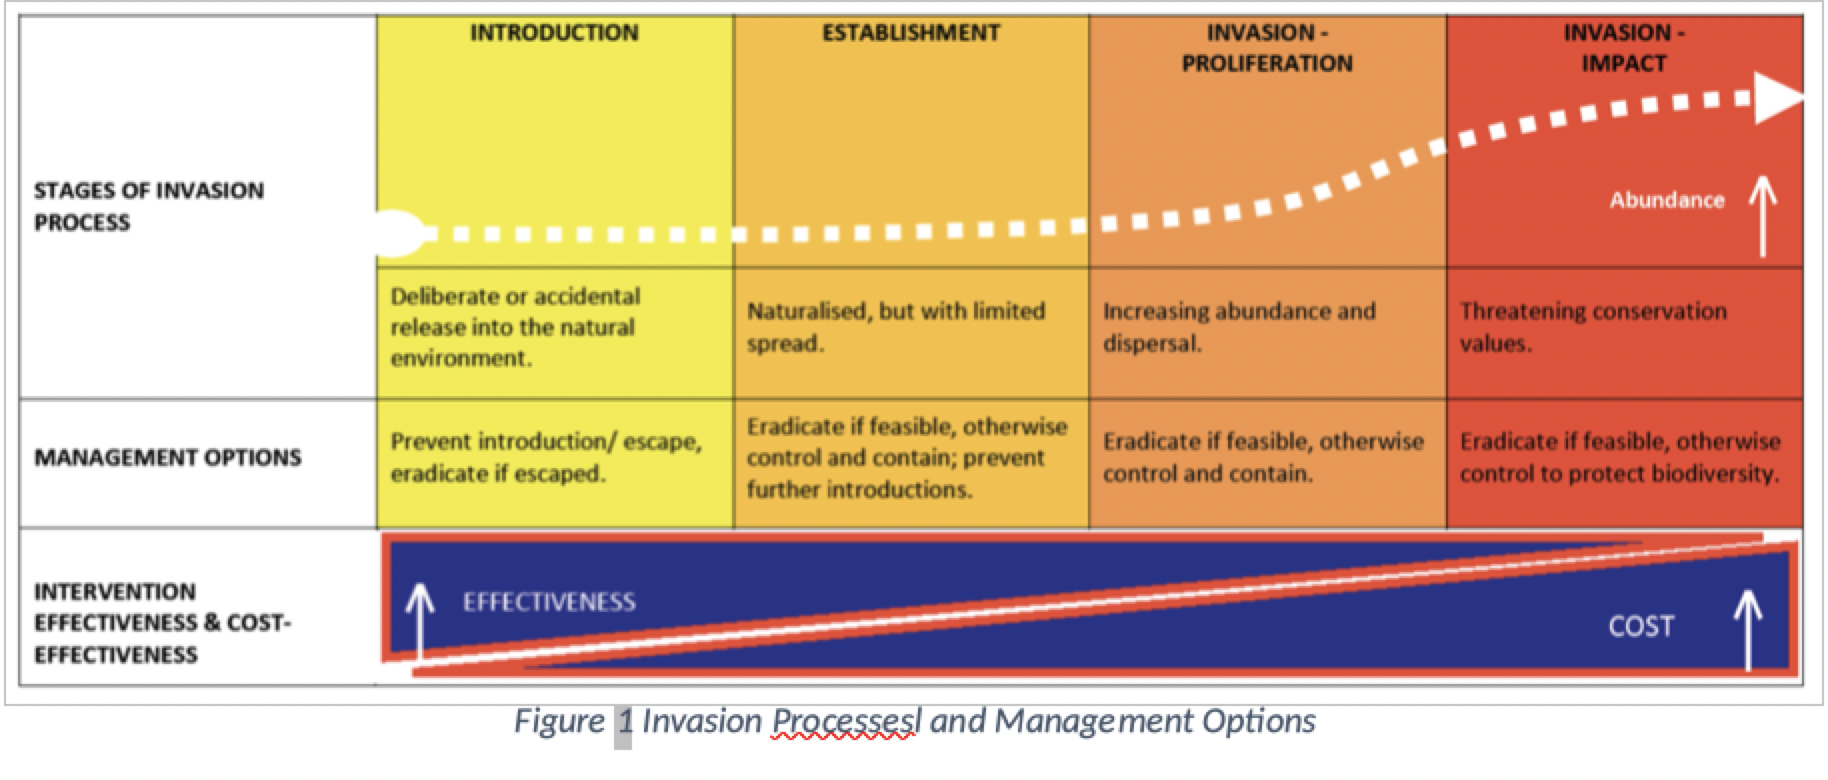
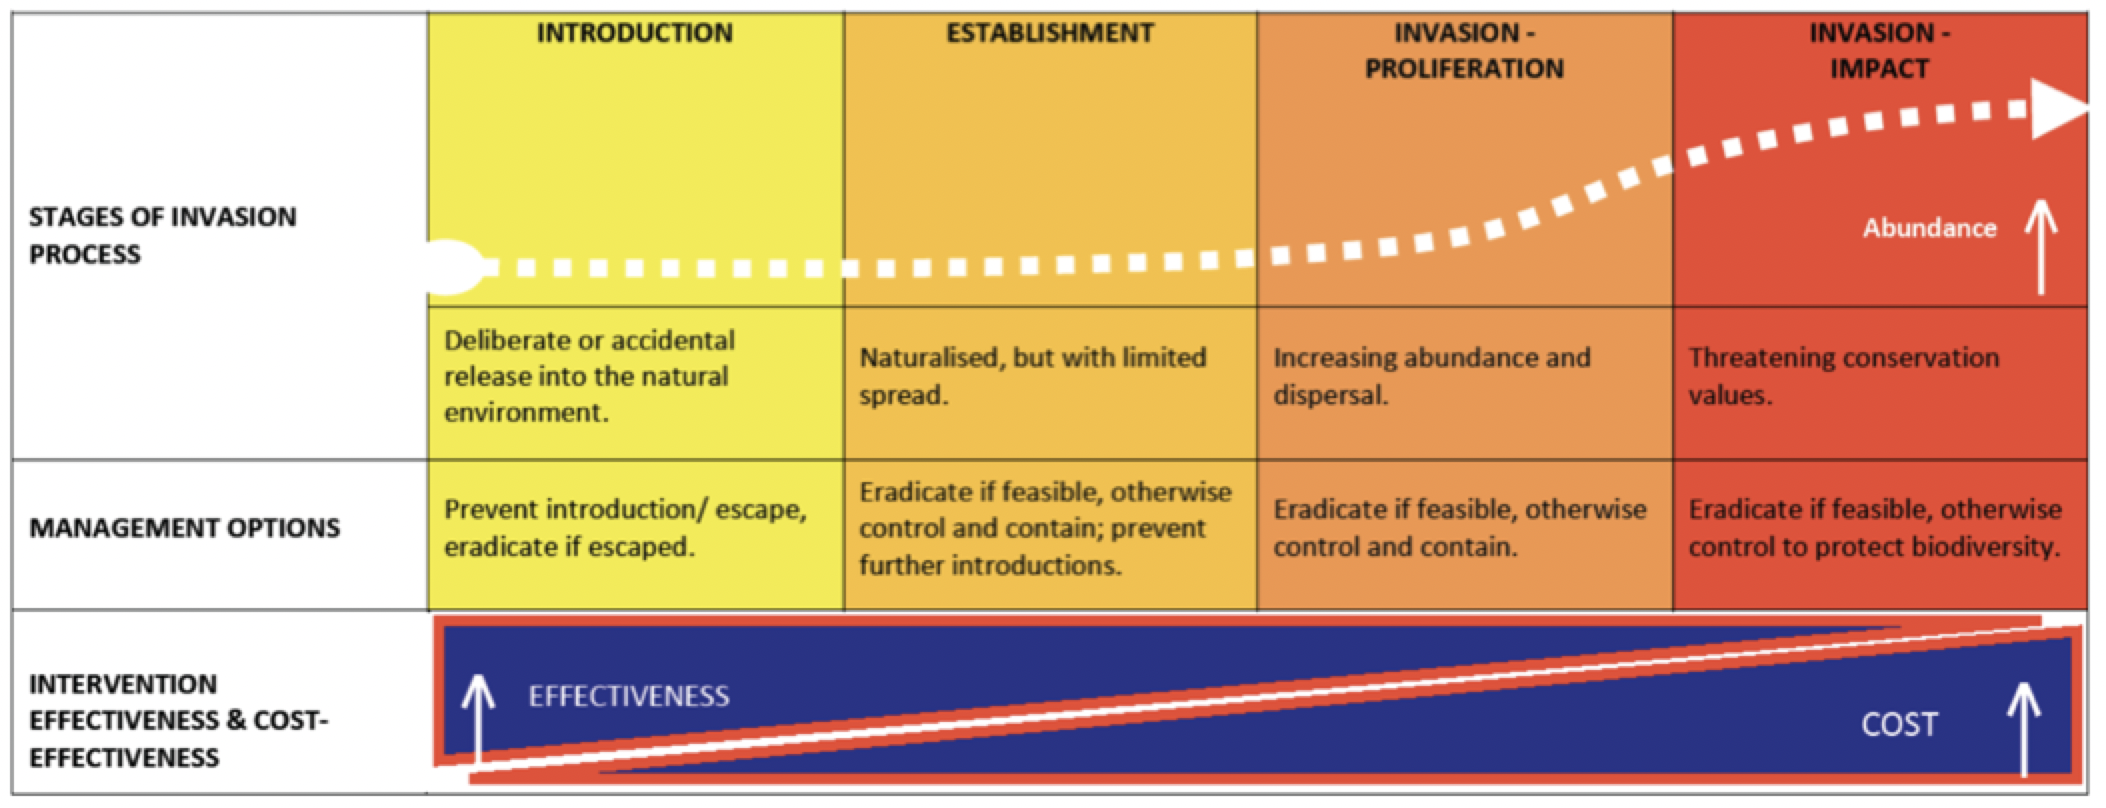
merged remote code. Changed image on control page

diff --git a/pages/control/index.js b/pages/control/index.js
@@ -13,10 +13,10 @@ export default function Control() {
         <div className={styles.controlSection}>
             <h1>Why is it Important to Control These Species?</h1>
             <p>Established Pest Animals are a serious threat to primary production, crown land, the environment and/or human health in Victoria. Depending on the level of invasion threat posed by these animals, the intervention/management effectiveness and the cost vary which can be depicted from the figure given:</p>
-            <img src='/invasion.png'></img>
+            <img src='/invasion.png' className={styles.invasion}></img>
             <p>Under the Catchment and Land Protection Act, 1994 all landowners, farmers have a legal duty to prevent the spread of – and as far as possible eradicate – established pest animals. The recommended management of established pest animals is to minimise their impact on selected high-value agriculture and environmental assets. </p>
             <h1>Managing Established Pest Animals: What Can You Do</h1>
-            <img src='/pestAnimalQuote.png'/>
+            <img src='/pestAnimalQuote.png' className={styles.invasion}/>
             <p>This video describes the best practices to keep in mind while developing and implementing a pest control plan:</p>
             <YoutubePlayer
             src="https://www.youtube.com/watch?v=JJEMr2pM4U0&t=102s&ab_channel=CentreforInvasiveSpeciesSolutions" // Reqiured

diff --git a/styles/Control.module.css b/styles/Control.module.css
@@ -110,6 +110,10 @@
     overflow-x: scroll;
 }
 
+.invasion {
+  width: 700:px;
+}
+
 @media only screen and (max-width: 750px) {
   .controlInfo {
     display: flex;
